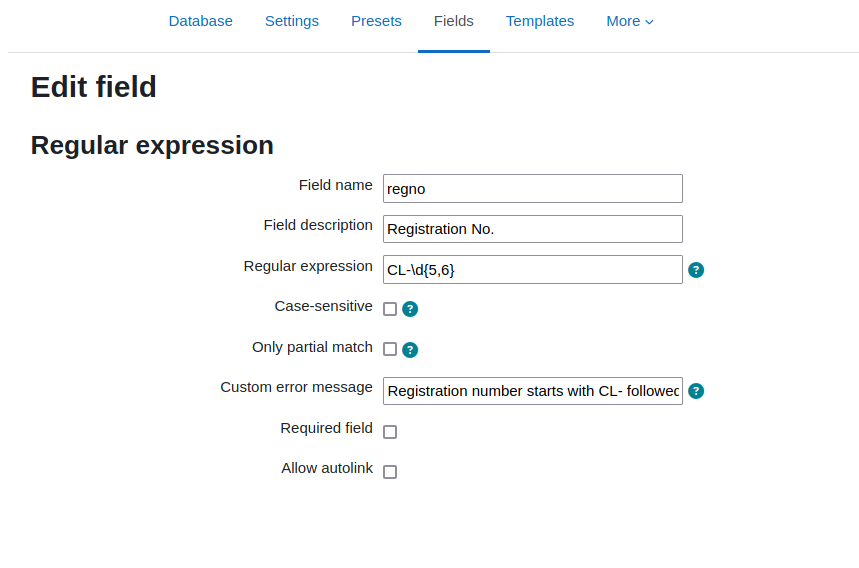
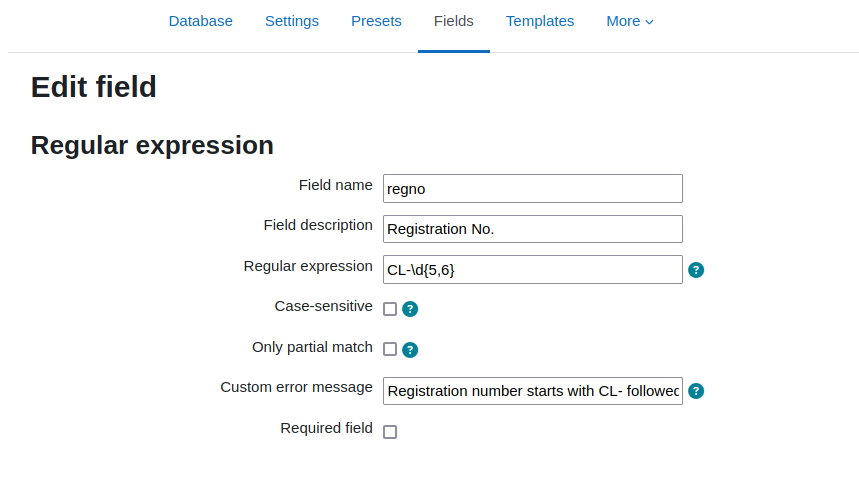
Adjust some of the issues reported by Laurent David as part of the approval process

diff --git a/mod.html b/mod.html
@@ -99,9 +99,4 @@
         <td class="c1"><input class="requiredfield" type="checkbox" name="required"
                               id="required" <?php p($this->field->required?"checked=\"checked\"":""); ?>/></td>
     </tr>
-    <tr>
-        <td class="c0"><label for="param1"><?php echo get_string('fieldallowautolink', 'data'); ?></label></td>
-        <td class="c1"><input class="requiredfield" type="checkbox" name="param1"
-                              id="param1" <?php p($this->field->param1?"checked=\"checked\"":""); ?>/></td>
-    </tr>
 </table>

diff --git a/field.class.php b/field.class.php
@@ -51,8 +51,8 @@ class data_field_regex extends data_field_base {
     public function image() {
         global $OUTPUT;
 
-        // When the cli/install.php was executed, the icon was linked/copied at this location.
-        return $OUTPUT->pix_icon('field/regex', 'regex', 'data');
+        // Show the custom icon on a regex field in the fields list.
+        return $OUTPUT->pix_icon('regex', 'regex', 'datafield_regex');
     }
 
     /**
@@ -97,7 +97,7 @@ class data_field_regex extends data_field_base {
         $this->field->id = 0;
         $this->field->dataid = $this->data->id;
         $this->field->type = $this->type;
-        $this->field->param1 = false; // Autolink.
+        $this->field->param1 = false; // Autolink, obsolete.
         $this->field->param2 = false; // Case-sensitive.
         $this->field->param3 = '';    // The regex term.
         $this->field->param4 = false; // Partial match.
@@ -234,12 +234,16 @@ class data_field_regex extends data_field_base {
      * @return string
      */
     protected function get_pattern(string $pattern): string {
+        // This is the default enclosing character that is usually used for regular expression.
         $delimiter = '/';
+        // PHP allows other enclosing chars for a regex. Check for a tilde and pipe first.
         if (strpos($pattern, '~') === false) {
             $delimiter = '~';
         } else if (strpos($pattern, '|') === false) {
             $delimiter = '|';
         } else {
+            // The default is the slash. Here we need to check now whether to escape
+            // expressions inside the term.
             if (strpos($pattern, '/') !== false) {
                 $newpattern = '';
                 while (true) {

diff --git a/README.md b/README.md
@@ -21,8 +21,7 @@ so that the files from the repository are inside the directory hierarchy
 1. Run `php mod/data/field/regex/cli/install.php` to symlink/copy
 the icon file from the plugin directory into the `mod/data/pix/field`
 directory. This step is optional, when not executed, the icon next to the
-regex entry under the button "Create a field" and in the list of existing
-fields will be missing.
+regex entry under the button "Create a field" will be missing.
 1. Finish the installation via the Moodle admin page.
 
 ## Usage
@@ -55,7 +54,7 @@ an idea how a correct input should look like. The error message is passed
 to the Moodle filters before being displayed. Therefore, multi language
 error messages can be provided.
 
-The other options *Required field* and *Allow autolink* are standard
+The option *Required field* is a standard
 Moodle options that do not change in this context.
 
 Whe the field settings are saved the newly created field shows up
